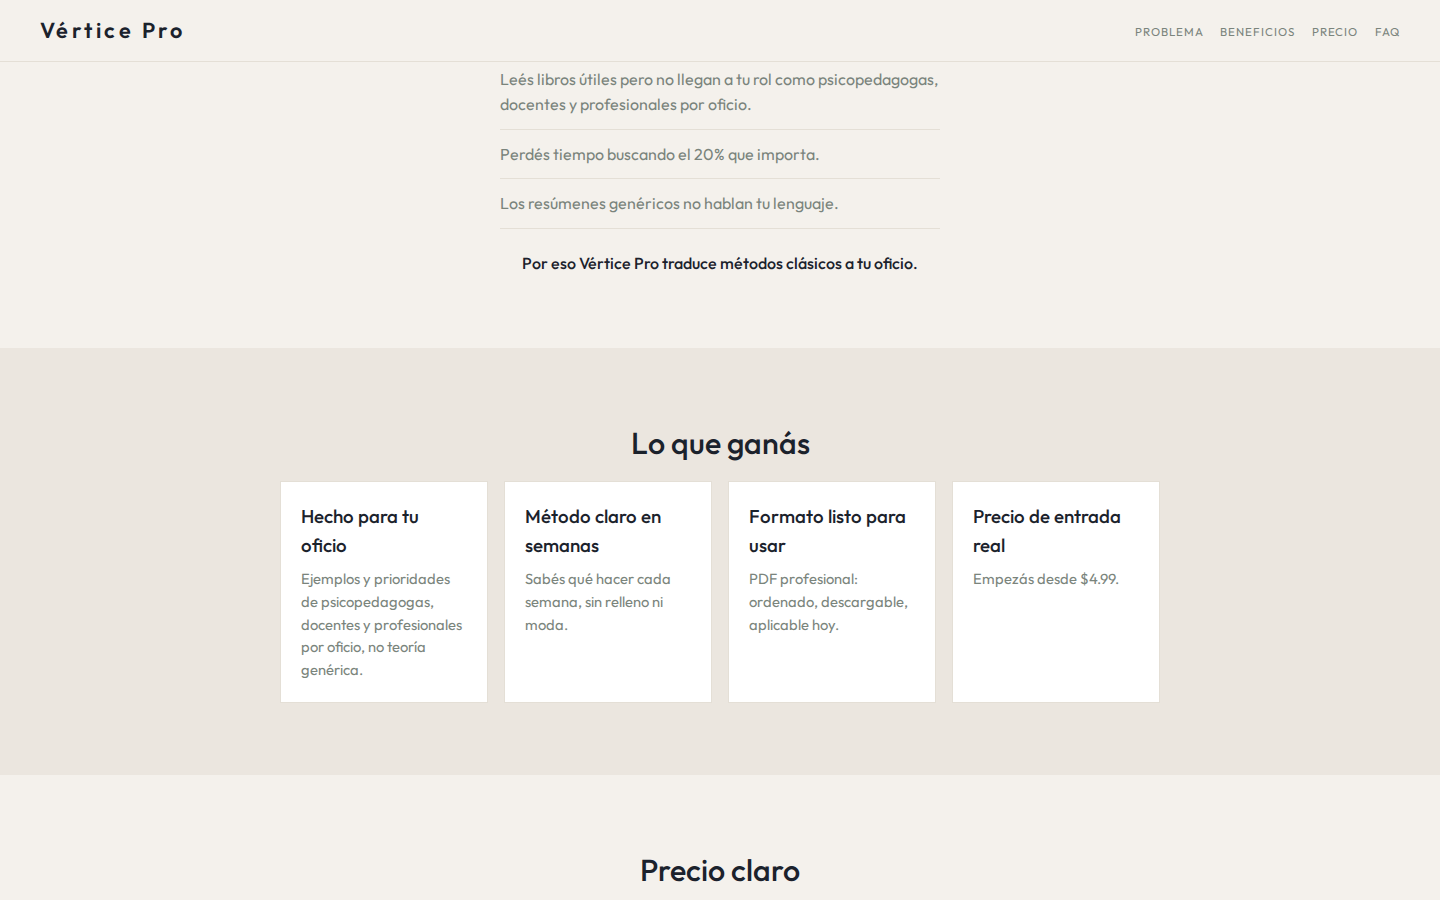
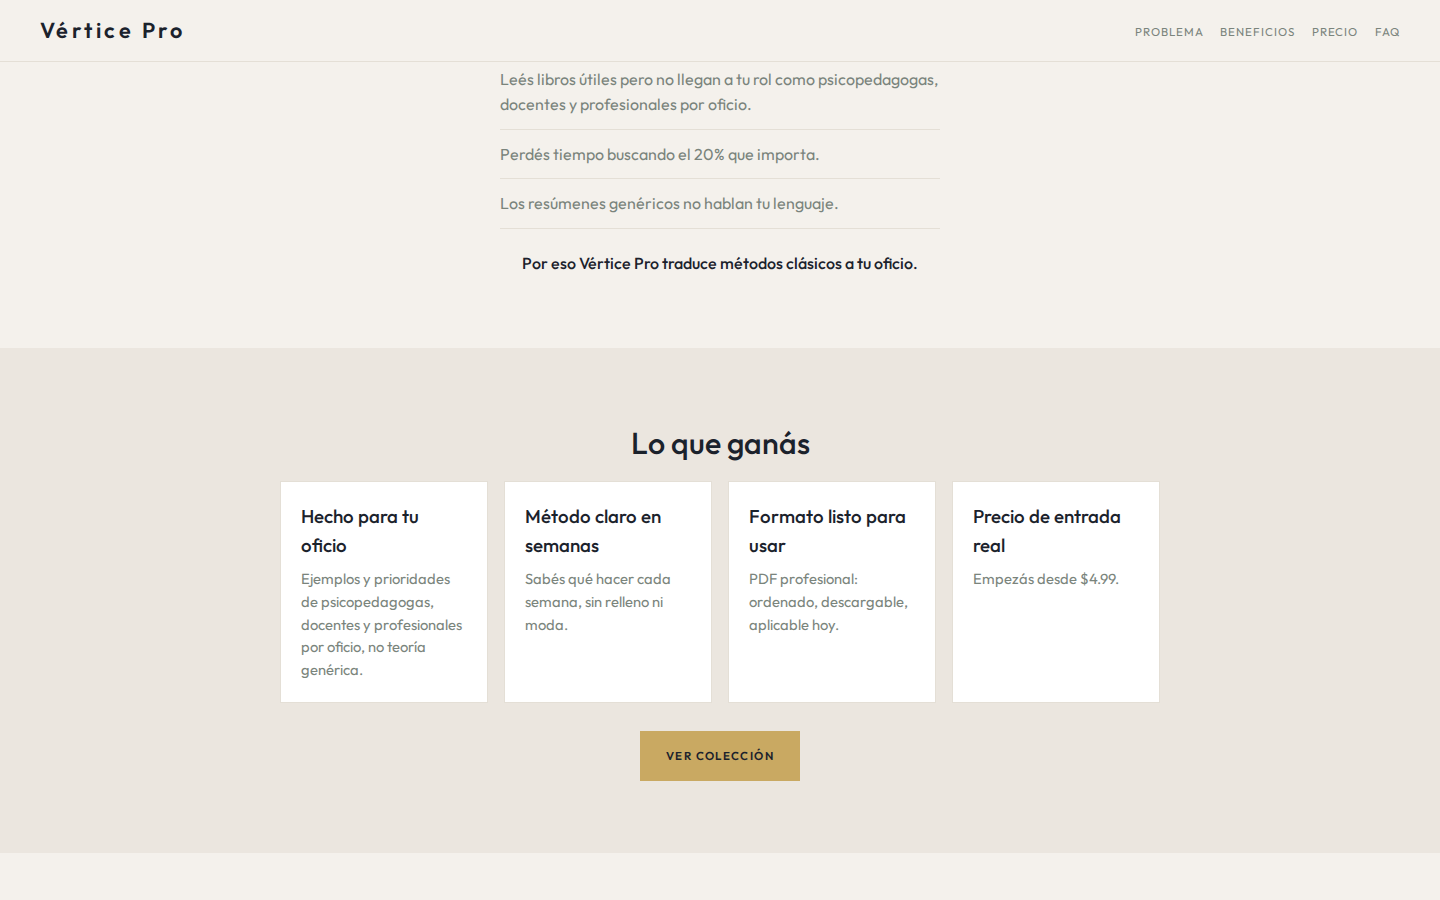
feat(landing_pipeline): v5 mejoras de conversión
- Garantía bajo el CTA de precio
- FAQ con pregunta de riesgo («¿Qué pasa si no me sirve?»)
- CTA primario ≥3 (hero + mid beneficios + precio + final)
- Social proof verificable (sin estrellas inventadas)
- QA chequea cta_count, garantia y FAQ de riesgo

Changed region(s): [[0.4375, 0.8089, 0.5625, 0.8711], [0.4375, 0.9333, 0.5625, 0.9956]]

diff --git a/landing_pipeline/output/vertice-pro/landing.html b/landing_pipeline/output/vertice-pro/landing.html
@@ -99,6 +99,11 @@
     .price { font-size: clamp(1.6rem, 4vw, 2.2rem); font-weight: 600; margin: 8px 0 16px; }
     .incluye { list-style: none; padding: 0; text-align: left; margin: 0 auto 22px; max-width: 28ch; }
     .incluye li { padding: 10px 0; border-bottom: 1px solid #e4dfd6; color: var(--muted); }
+    .garantia {
+      margin-top: 14px; font-size: .82rem; color: var(--muted);
+      letter-spacing: .02em;
+    }
+    .mid-cta { text-align: center; margin-top: 28px; }
     details { background: #fff; border: 1px solid #e4dfd6; padding: 14px 16px; margin-bottom: 10px; border-radius: var(--radius); }
     summary { cursor: pointer; font-weight: 500; }
     details p { margin-top: 8px; color: var(--muted); font-size: .92rem; }
@@ -135,7 +140,7 @@
   </div>
 </section>
 <div class="proof" id="social-proof" data-section="social_proof">
-  <strong>6 productos · 5 perfiles</strong> · Colección lista para aplicar
+  <strong>6 productos · 5 perfiles</strong> · Dato del catálogo · sin reseñas inventadas
 </div>
 <section id="problema" data-section="problem">
   <div class="inner">
@@ -178,6 +183,10 @@
       </article>
       
     </div>
+    
+    <p class="mid-cta">
+      <a class="btn" href="#precio">Ver colección</a>
+    </p>
   </div>
 </section>
 <section id="precio" data-section="pricing">
@@ -195,6 +204,9 @@
         
       </ul>
       <a class="btn" href="#">Ver colección</a>
+      
+      <p class="garantia">Pago único · acceso inmediato · sin letra chica</p>
+      
     </div>
   </div>
 </section>
@@ -223,8 +235,13 @@
     </details>
     
     <details>
+      <summary>¿Qué pasa si no me sirve?</summary>
+      <p>Escribimos y te ayudamos. Queremos que te sirva en tu oficio — sin letra chica escondida.</p>
+    </details>
+    
+    <details>
       <summary>¿Cuánto cuesta?</summary>
-      <p>desde $4.99 Sin letra chica.</p>
+      <p>desde $4.99 Pago único, sin suscripción.</p>
     </details>
     
   </div>

diff --git a/vertice-pro-preview/pipeline-landing.html b/vertice-pro-preview/pipeline-landing.html
@@ -99,6 +99,11 @@
     .price { font-size: clamp(1.6rem, 4vw, 2.2rem); font-weight: 600; margin: 8px 0 16px; }
     .incluye { list-style: none; padding: 0; text-align: left; margin: 0 auto 22px; max-width: 28ch; }
     .incluye li { padding: 10px 0; border-bottom: 1px solid #e4dfd6; color: var(--muted); }
+    .garantia {
+      margin-top: 14px; font-size: .82rem; color: var(--muted);
+      letter-spacing: .02em;
+    }
+    .mid-cta { text-align: center; margin-top: 28px; }
     details { background: #fff; border: 1px solid #e4dfd6; padding: 14px 16px; margin-bottom: 10px; border-radius: var(--radius); }
     summary { cursor: pointer; font-weight: 500; }
     details p { margin-top: 8px; color: var(--muted); font-size: .92rem; }
@@ -135,7 +140,7 @@
   </div>
 </section>
 <div class="proof" id="social-proof" data-section="social_proof">
-  <strong>6 productos · 5 perfiles</strong> · Colección lista para aplicar
+  <strong>6 productos · 5 perfiles</strong> · Dato del catálogo · sin reseñas inventadas
 </div>
 <section id="problema" data-section="problem">
   <div class="inner">
@@ -178,6 +183,10 @@
       </article>
       
     </div>
+    
+    <p class="mid-cta">
+      <a class="btn" href="#precio">Ver colección</a>
+    </p>
   </div>
 </section>
 <section id="precio" data-section="pricing">
@@ -195,6 +204,9 @@
         
       </ul>
       <a class="btn" href="#">Ver colección</a>
+      
+      <p class="garantia">Pago único · acceso inmediato · sin letra chica</p>
+      
     </div>
   </div>
 </section>
@@ -223,8 +235,13 @@
     </details>
     
     <details>
+      <summary>¿Qué pasa si no me sirve?</summary>
+      <p>Escribimos y te ayudamos. Queremos que te sirva en tu oficio — sin letra chica escondida.</p>
+    </details>
+    
+    <details>
       <summary>¿Cuánto cuesta?</summary>
-      <p>desde $4.99 Sin letra chica.</p>
+      <p>desde $4.99 Pago único, sin suscripción.</p>
     </details>
     
   </div>

diff --git a/landing_pipeline/src/templates/base.html b/landing_pipeline/src/templates/base.html
@@ -99,6 +99,11 @@
     .price { font-size: clamp(1.6rem, 4vw, 2.2rem); font-weight: 600; margin: 8px 0 16px; }
     .incluye { list-style: none; padding: 0; text-align: left; margin: 0 auto 22px; max-width: 28ch; }
     .incluye li { padding: 10px 0; border-bottom: 1px solid #e4dfd6; color: var(--muted); }
+    .garantia {
+      margin-top: 14px; font-size: .82rem; color: var(--muted);
+      letter-spacing: .02em;
+    }
+    .mid-cta { text-align: center; margin-top: 28px; }
     details { background: #fff; border: 1px solid #e4dfd6; padding: 14px 16px; margin-bottom: 10px; border-radius: var(--radius); }
     summary { cursor: pointer; font-weight: 500; }
     details p { margin-top: 8px; color: var(--muted); font-size: .92rem; }

diff --git a/landing_pipeline/src/templates/benefits.html b/landing_pipeline/src/templates/benefits.html
@@ -2,12 +2,16 @@
   <div class="inner">
     <h2>Lo que ganás</h2>
     <div class="bens">
-      {% for i in benefits["items"][:5] %}
+      {% for i in benefits.get("items", [])[:5] %}
       <article class="ben">
         <h3>{{ i.titulo }}</h3>
         <p>{{ i.texto }}</p>
       </article>
       {% endfor %}
     </div>
+    {# CTA mid — 2º botón primario (mobile no scrollea arriba) #}
+    <p class="mid-cta">
+      <a class="btn" href="#precio">{{ hero.cta if hero and hero.cta else "Ver oferta" }}</a>
+    </p>
   </div>
 </section>

diff --git a/landing_pipeline/src/templates/pricing.html b/landing_pipeline/src/templates/pricing.html
@@ -4,11 +4,14 @@
     <div class="price-box">
       <p class="price">{{ pricing.precio }}</p>
       <ul class="incluye">
-        {% for x in pricing["incluye"][:3] %}
+        {% for x in pricing.get("incluye", [])[:3] %}
         <li>{{ x }}</li>
         {% endfor %}
       </ul>
       <a class="btn" href="#">{{ pricing.cta }}</a>
+      {% if pricing.get("garantia") %}
+      <p class="garantia">{{ pricing.garantia }}</p>
+      {% endif %}
     </div>
   </div>
 </section>

diff --git a/landing_pipeline/src/agents/12_qa.py b/landing_pipeline/src/agents/12_qa.py
@@ -232,6 +232,55 @@ def run(input: dict[str, Any]) -> dict[str, Any]:
             if not any(o["seccion"] == s for o in omisiones):
                 omisiones.append({"seccion": s, "motivo": "omitida en assemble"})
 
+    # v5: ≥3 CTAs primarios
+    btn_count = len(re.findall(r'class="btn"', html))
+    if btn_count < 3:
+        criticos.append(
+            {
+                "tipo": "cta_insuficientes",
+                "detalle": f"Solo {btn_count} botones .btn (mínimo 3: hero, mid, precio/cta)",
+                "texto": str(btn_count),
+            }
+        )
+        regenerar.append("11b_assemble")
+        score -= 15
+
+    # v5: garantía bajo precio
+    if 'class="garantia"' not in html and "garantia" not in (copy.get("pricing") or {}):
+        criticos.append(
+            {
+                "tipo": "garantia_faltante",
+                "detalle": "Falta línea de garantía bajo el CTA de precio",
+                "texto": "garantia",
+            }
+        )
+        regenerar.append("07_pricing")
+        score -= 10
+    elif 'class="garantia"' not in html:
+        criticos.append(
+            {
+                "tipo": "garantia_faltante",
+                "detalle": "copy tiene garantia pero no se renderizó",
+                "texto": "garantia",
+            }
+        )
+        regenerar.append("11b_assemble")
+        score -= 10
+
+    # v5: FAQ con riesgo/garantía
+    faq_items = (copy.get("faq") or {}).get("items") or []
+    faq_blob = " ".join(f"{f.get('q','')} {f.get('a','')}" for f in faq_items).lower()
+    if not any(k in faq_blob for k in ("garant", "devoluc", "no me sirve", "riesgo", "reembolso")):
+        criticos.append(
+            {
+                "tipo": "faq_sin_garantia",
+                "detalle": "FAQ sin pregunta de garantía/riesgo",
+                "texto": "faq",
+            }
+        )
+        regenerar.append("08_faq")
+        score -= 10
+
     score = max(0, min(100, score))
     return {
         "score": score,
@@ -242,4 +291,5 @@ def run(input: dict[str, Any]) -> dict[str, Any]:
         "bugs_v2": bugs_v2,
         "section_counts": section_counts,
         "n_sections": sum(1 for v in section_counts.values() if v > 0),
+        "cta_count": btn_count,
     }

diff --git a/landing_pipeline/src/agents/07_pricing.py b/landing_pipeline/src/agents/07_pricing.py
@@ -1,4 +1,4 @@
-"""07 — Pricing (sin duplicar 'desde')"""
+"""07 — Pricing (sin duplicar 'desde' + garantía bajo el CTA)"""
 
 from __future__ import annotations
 
@@ -10,11 +10,17 @@ from src.text_utils import sanitize_prepend
 
 def _mock(brief: dict, _copy: dict) -> dict:
     raw = (brief.get("precio") or "Consultar").strip()
-    # Si el brief ya trae "desde", no anteponer otra vez
-    precio = sanitize_prepend("desde", raw) if raw.lower() not in ("consultar",) else raw
-    # Si raw ya era "desde $4.99", sanitize lo deja igual
     if raw.lower().startswith("desde"):
         precio = raw
+    elif raw.lower() in ("consultar",):
+        precio = raw
+    else:
+        precio = sanitize_prepend("desde", raw)
+    garantia = (
+        brief.get("garantia")
+        or (brief.get("extras") or {}).get("garantia")
+        or "Pago único · acceso inmediato · sin letra chica"
+    )
     return {
         "precio": precio,
         "incluye": [
@@ -23,6 +29,7 @@ def _mock(brief: dict, _copy: dict) -> dict:
             "Soporte de lanzamiento de colección",
         ],
         "cta": brief.get("cta") or "Comprar ahora",
+        "garantia": garantia,
     }
 
 

diff --git a/landing_pipeline/src/agents/03_social_proof.py b/landing_pipeline/src/agents/03_social_proof.py
@@ -1,4 +1,4 @@
-"""03 — Social proof"""
+"""03 — Social proof (dato verificable; no inventar estrellas)"""
 
 from __future__ import annotations
 
@@ -9,12 +9,23 @@ from src.llm_client import LLMClient
 
 
 def _mock(brief: dict, _copy: dict) -> dict:
+    extras = brief.get("extras") or {}
+    # Preferir prueba social real si el brief la trae
+    real = brief.get("social_proof") or extras.get("social_proof") or {}
+    if real.get("cifra_o_logos") or real.get("rating"):
+        return {
+            "cifra_o_logos": real.get("cifra_o_logos") or real.get("rating"),
+            "texto": real.get("texto") or "",
+            "confianza": "alta",
+            "fuente": real.get("fuente") or "brief",
+        }
     n = brief.get("n_productos") or 1
     r = brief.get("n_roles") or 1
     return {
         "cifra_o_logos": f"{n} productos · {r} perfiles",
-        "texto": "Colección lista para aplicar",
+        "texto": "Dato del catálogo · sin reseñas inventadas",
         "confianza": "media",
+        "fuente": "producto",
     }
 
 

diff --git a/landing_pipeline/src/agents/08_faq.py b/landing_pipeline/src/agents/08_faq.py
@@ -1,4 +1,4 @@
-"""08 — FAQ (solo nombre_producto público)"""
+"""08 — FAQ (nombre_producto + garantía/riesgo)"""
 
 from __future__ import annotations
 
@@ -30,8 +30,12 @@ def _mock(brief: dict, _copy: dict) -> dict:
                 "a": "Está escrito para tu rol: lenguaje, ejemplos y prioridades de tu día a día.",
             },
             {
+                "q": "¿Qué pasa si no me sirve?",
+                "a": "Escribimos y te ayudamos. Queremos que te sirva en tu oficio — sin letra chica escondida.",
+            },
+            {
                 "q": "¿Cuánto cuesta?",
-                "a": f"{brief.get('precio') or 'El precio está visible en la sección de compra.'} Sin letra chica.",
+                "a": f"{brief.get('precio') or 'El precio está visible en la sección de compra.'} Pago único, sin suscripción.",
             },
         ]
     }

diff --git a/landing_pipeline/src/skills/design_skill.md b/landing_pipeline/src/skills/design_skill.md
@@ -2,18 +2,17 @@
 
 ## Regla
 Tokens de diseño (colores, tipografía, radios) — NO HTML.
-El HTML lo arma `11b_assemble.py` con Jinja2 (determinístico).
+HTML = `11b_assemble` + Jinja2.
 
 ## Obligatorio (tokens)
 - Un solo `accent` para todos los botones primarios.
-- `ink`, `paper`, `accent`, `muted`, `sand`, `font_heading`, `font_body`, `radius`.
+- Keys: ink, paper, accent, muted, sand, font_heading, font_body, radius.
 
-## Obligatorio (templates / assemble — no el LLM)
-- Un solo `landing.html` vía templates Jinja2.
-- `--accent` una vez en `:root`; todo `.btn` usa `var(--accent)`.
-- Cada sección: flujo normal, sin `position: absolute|fixed` de contenido.
-- **Sin animaciones de entrada** (no IntersectionObserver, no opacity:0 + translateY).
-- Si testimonios `omitida`, no incluir el template.
+## Obligatorio (templates)
+- CTA primario ≥ 3 veces (hero, después de beneficios, precio y/o CTA final). Todas con `var(--accent)`.
+- Sin absolute/fixed de contenido; sin animaciones scroll-reveal.
+- Garantía visible bajo el botón de precio.
+- Testimonios omitidos → no renderizar template.
 
 ## Output esperado (JSON tokens)
 { "ink": "", "paper": "", "accent": "", "muted": "", "sand": "", "font_heading": "", "font_body": "", "radius": "" }

diff --git a/landing_pipeline/src/skills/testimonials_skill.md b/landing_pipeline/src/skills/testimonials_skill.md
@@ -1,18 +1,13 @@
 # Skill: Testimonials
 
 ## Regla
-Un quote fuerte > cinco genéricos. Nombre + cargo real.
-Si brief.json no trae testimonios reales (array vacío o ausente),
-NO inventar nombre/cargo/quote.
+Un quote fuerte > cinco genéricos. Nombre + cargo/ciudad real.
+Si no hay data: `omitida: true` (no inventar).
 
 ## Obligatorio
-- Máximo 3 testimonios.
-- Campos: nombre, cargo, quote (≤ 35 palabras).
-- Si faltan datos reales: `{"omitida": true, "motivo": "sin testimonios reales en el brief", "items": []}`.
-- Nunca placeholders tipo "Cliente satisfecho".
-
-## Ejemplo
-"Ana R., psicopedagoga" · "En dos semanas ya tenía el 80/20 de mis intervenciones claro."
+- Máx. 3. Si faltan: `{"omitida": true, "motivo": "sin testimonios reales en el brief", "items": []}`.
+- Formato creíble: quote corto + nombre de pila + ciudad o rol (ej. "Hrefna, Akureyri").
+- Nunca "Cliente satisfecho".
 
 ## Output esperado (JSON)
 { "omitida": false, "items": [ { "nombre": "", "cargo": "", "quote": "" } ], "motivo": "" }

diff --git a/landing_pipeline/src/skills/pricing_skill.md b/landing_pipeline/src/skills/pricing_skill.md
@@ -2,16 +2,16 @@
 
 ## Regla
 Precio claro, sin letra chica, un solo CTA de compra.
-Si hay varios productos: precio de entrada + enlace a colección.
+Debajo del botón: línea de garantía / reversión de riesgo (obligatoria).
 
 ## Obligatorio
-- Precio visible (ej. "desde $4.99").
-- **Sanitizar prefijos**: antes de anteponer "desde" / "a partir de", verificar si el brief ya lo incluye. Nunca "desde desde $4.99".
-- Qué incluye en 3 bullets máx.
-- Un solo CTA de compra.
+- Precio visible. Sanitizar "desde" / "a partir de" (nunca duplicar).
+- 3 bullets máx. de qué incluye.
+- Un CTA de compra.
+- Campo `garantia` justo bajo el botón (ej. "Pago único, sin suscripción").
 
 ## Ejemplo
-"desde $4.99" · PDF · plan 10 semanas · descarga inmediata · [Comprar guía]
+"desde $4.99" · [Comprar] · "Pago único · acceso inmediato · sin letra chica"
 
 ## Output esperado (JSON)
-{ "precio": "", "incluye": ["", "", ""], "cta": "" }
+{ "precio": "", "incluye": ["", "", ""], "cta": "", "garantia": "" }
